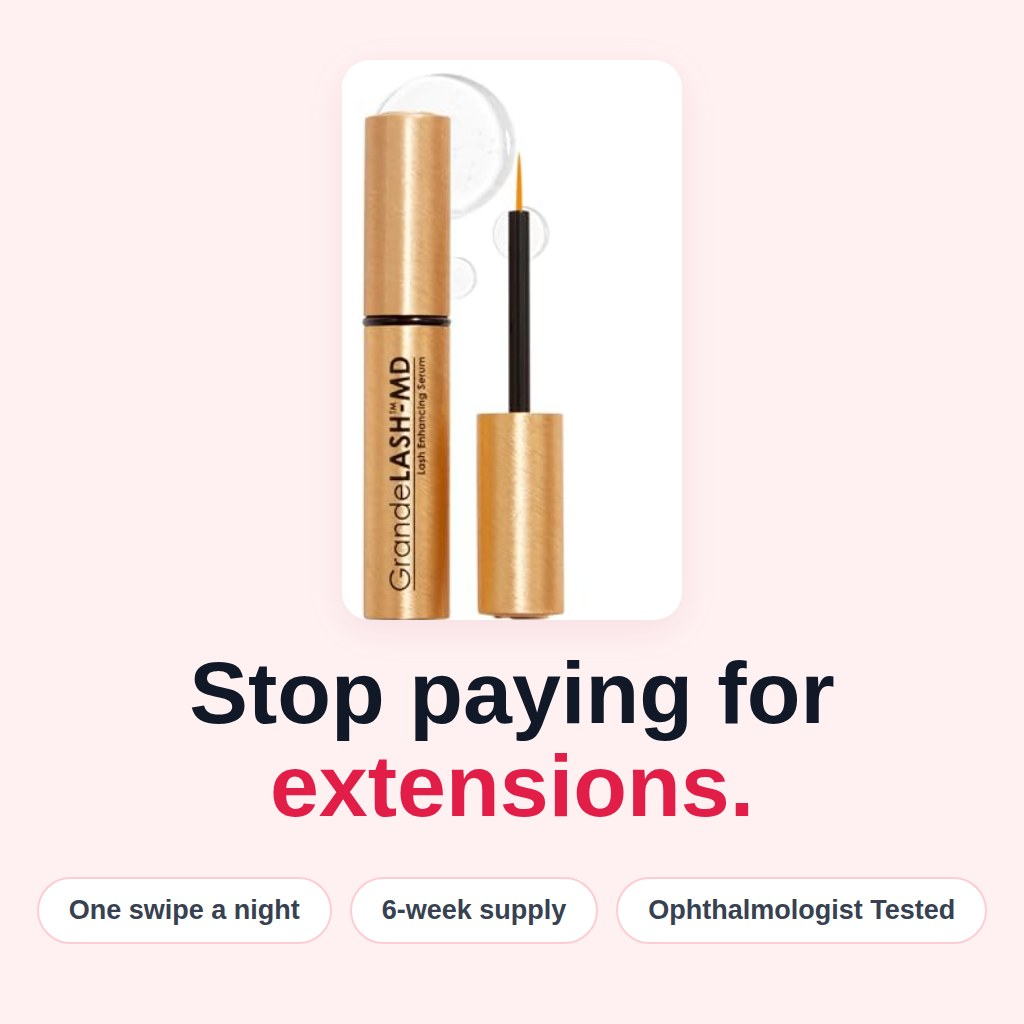
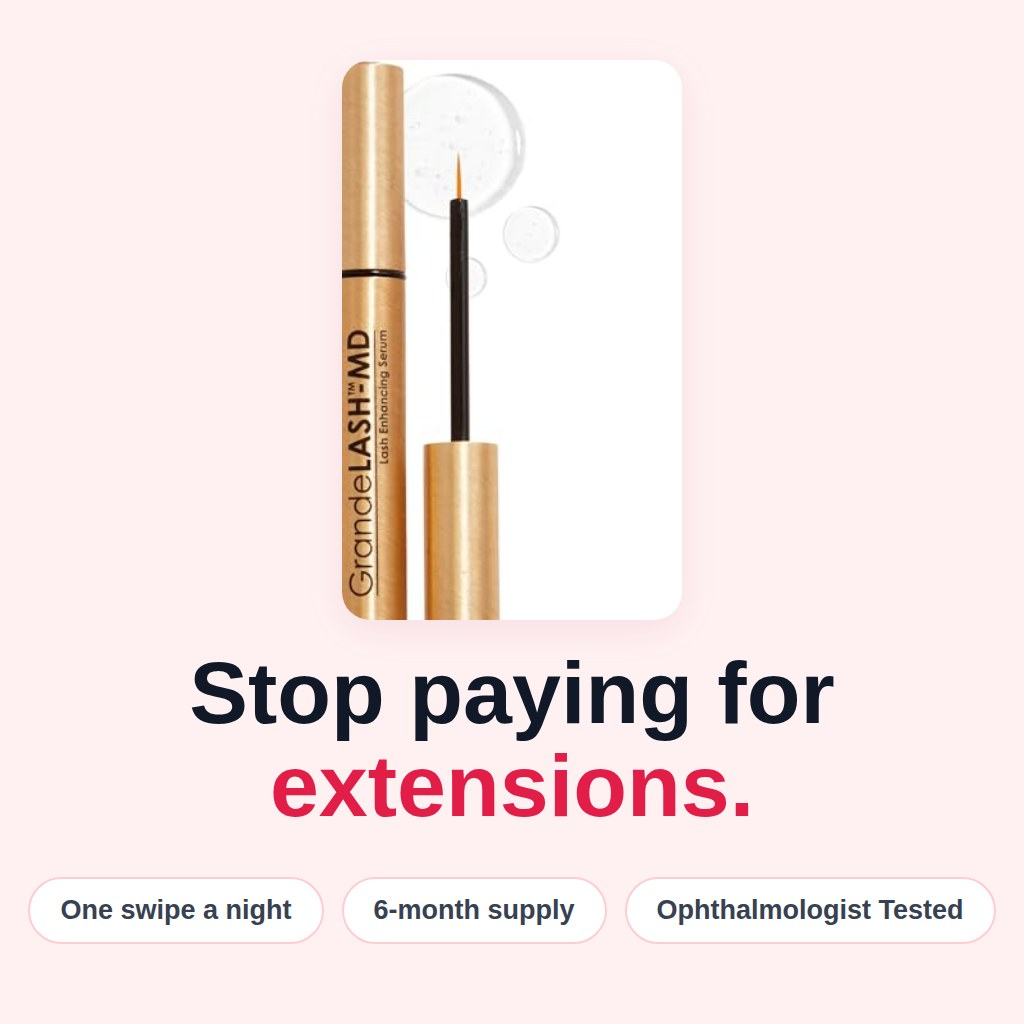
GrandeLash switches to the 4mL 6-month listing (B07QNQJ5FK, $125)
Owner's new grand-lash-fb-20 link, normalized from /gp/product/ to /dp/ so
the iOS app handoff keeps working; price/value 125 across pixel+CAPI maps,
6-month-supply copy, live listing images, deal baseline $125, break-even
default $12.50, creative cards re-rendered with the 4mL product.

Claude-Session: https://claude.ai/code/session_01Ade9dtCk8nmcaw3rm8RmuU

Changed region(s): [[0.3125, 0.0625, 0.5625, 0.625], [0.0312, 0.8438, 0.9688, 0.9062]]

diff --git a/src/app/GrandeLashMD/GLPage.tsx b/src/app/GrandeLashMD/GLPage.tsx
@@ -14,11 +14,12 @@ import type { AmazonProductData } from "@/lib/amazon-creators-api";
 // Claims follow the listing's own wording ("longer, thicker,
 // fuller-LOOKING lashes") — no medical/growth claims.
 // ── Product constants ─────────────────────────────────────────────
-// Owner's corrected SiteStripe link for the 1mL 6-week listing (ASIN
-// B082WZTJV5, tag=grand-lash-ig-20, 2026-09-03). DIRECT amazon.com URL
-// only (NEVER amzn.to: breaks the app handoff).
-const DEFAULT_AMAZON_LINK = "https://www.amazon.com/dp/B082WZTJV5?_encoding=UTF8&th=1&linkCode=ll2&tag=grand-lash-ig-20&linkId=bfe34b7ad3a4574413607d6a897804c9&language=en_US&gaOptInStatus=true&ref_=as_li_ss_tl";
-const PRICE_VALUE = 36;
+// Owner's SiteStripe link for the 4mL 6-month listing (B07QNQJ5FK,
+// tag=grand-lash-fb-20, 2026-09-16), normalized from /gp/product/ to /dp/
+// with identical params — ONLY /dp/ paths open the Amazon app on iOS
+// (AASA match). DIRECT amazon.com URL only (NEVER amzn.to).
+const DEFAULT_AMAZON_LINK = "https://www.amazon.com/dp/B07QNQJ5FK?th=1&linkCode=ll2&tag=grand-lash-fb-20&linkId=48d2a7726b8c4e64e7dce831eef58fa1&language=en_US&gaOptInStatus=true&ref_=as_li_ss_tl";
+const PRICE_VALUE = 125;
 
 // Verified on the live listing 2026-08-06 (user screenshot): 4.2★, 59,511
 // ratings, #1 Best Seller in Eyelash Primers. No invented numbers, ever.
@@ -28,15 +29,15 @@ const REVIEW_COUNT: number | null = 59511;
 // Official Amazon CDN images (stable URLs via the Creators API) — the
 // guaranteed fallback when a live API fetch fails.
 const FALLBACK_IMAGES = [
-  "https://m.media-amazon.com/images/I/41y2Yw6zsML._SL1000_.jpg",
+  "https://m.media-amazon.com/images/I/412OmkHewvL._SL1000_.jpg",
   "https://m.media-amazon.com/images/I/518A6SDWd9L._SL1000_.jpg",
   "https://m.media-amazon.com/images/I/41Ob8oijywL._SL1000_.jpg",
   "https://m.media-amazon.com/images/I/51VaIjFAJDL._SL1000_.jpg",
   "https://m.media-amazon.com/images/I/51c2l+ps63L._SL1000_.jpg",
   "https://m.media-amazon.com/images/I/41GGmw92bxL._SL1000_.jpg",
-  "https://m.media-amazon.com/images/I/41GfGG7AuuL._SL1000_.jpg",
+  "https://m.media-amazon.com/images/I/41iolbiCLKL._SL1000_.jpg",
 ];
-const FALLBACK_PRICE_ANCHOR = "Around $36.00";
+const FALLBACK_PRICE_ANCHOR = "Around $125.00";
 
 // Campaign creative supplied by the owner (2026-08) — stylized BRAND
 // visuals. Per the truthful-marketing invariant they are captioned as
@@ -46,7 +47,7 @@ const BEFORE_AFTER_IMAGE = { src: "/images/grandelash/before-after-lashes.jpg", 
 const STORY_IMAGE = { src: "/images/grandelash/mirror-routine.jpg", alt: "Applying GrandeLASH-MD along the upper lash line in the nightly routine" };
 const LIFESTYLE_IMAGES = [
   { src: "/images/grandelash/card-rating.jpg", alt: "GrandeLASH-MD — 4.2 out of 5 from 59,000+ Amazon ratings, #1 Best Seller in Eyelash Primers" },
-  { src: "/images/grandelash/card-extensions.jpg", alt: "Stop paying for extensions — one swipe a night, 6-week supply, ophthalmologist tested" },
+  { src: "/images/grandelash/card-extensions.jpg", alt: "Stop paying for extensions — one swipe a night, 6-month supply, ophthalmologist tested" },
   { src: "/images/grandelash/grand1.jpeg", alt: "Lash comparison — GrandeLASH-MD brand visual" },
   { src: "/images/grandelash/selfie-serum.jpg", alt: "Holding the GrandeLASH-MD serum tube" },
   { src: "/images/grandelash/eye-closeup-poster.jpg", alt: "GrandeLASH-MD brand visual with a lash close-up" },
@@ -106,11 +107,11 @@ export function GLPage({ trackingPage, amazonLink, product }: { trackingPage: st
   const hasRating = starRating !== null && reviewCount !== null;
   const priceValue = product?.price?.amount || PRICE_VALUE;
   const priceAnchor = product?.price?.displayAmount ? `Around ${product.price.displayAmount}` : FALLBACK_PRICE_ANCHOR;
-  // Honest urgency: the listing's standard price is $36 (verified at the
-  // ASIN switch). When the LIVE Amazon price is lower we surface the real
-  // discount; when the deal ends this disappears on its own. Never shown
-  // without a live price.
-  const REGULAR_PRICE = 36;
+  // Honest urgency: the listing's verified price at the ASIN switch
+  // (2026-09-16) is $125. When the LIVE Amazon price is lower we surface
+  // the real discount; when the deal ends this disappears on its own.
+  // Never shown without a live price.
+  const REGULAR_PRICE = 125;
   const livePrice = product?.price?.amount;
   const isDeal = typeof livePrice === "number" && livePrice > 0 && livePrice < REGULAR_PRICE;
   const dealPct = isDeal ? Math.round((1 - (livePrice as number) / REGULAR_PRICE) * 100) : 0;
@@ -119,8 +120,7 @@ export function GLPage({ trackingPage, amazonLink, product }: { trackingPage: st
     .map((img) => img?.large?.url)
     .filter((u): u is string => !!u)
     .map((u) => ({ url: u.replace("._SL500_.", "._SL1000_."), alt }));
-  // The old hand-saved 1500px set showed the 4mL Jumbo box; the 1mL
-  // listing (B082WZTJV5) is displayed from the live API images (500px)
+  // The 4mL listing (B07QNQJ5FK) is displayed from the live API images
   // with the static list above as the guaranteed fallback.
   const apiImages = liveImages.length > 0 ? liveImages : FALLBACK_IMAGES.map((url) => ({ url, alt }));
 
@@ -174,14 +174,14 @@ export function GLPage({ trackingPage, amazonLink, product }: { trackingPage: st
                     <p className="text-base text-gray-800">
                       <span className="font-black text-lg">Today: ${livePrice}</span>{" "}
                       <span className="text-gray-400 line-through">usually ${REGULAR_PRICE}</span>
-                      <span className="text-sm text-gray-600"> — a 6-week supply</span>
+                      <span className="text-sm text-gray-600"> — a 6-month supply</span>
                     </p>
                   </div>
                 ) : priceAnchor && (
                   <p className="text-center md:text-left text-base text-gray-800 mb-1">
                     <span className="font-bold">{priceAnchor}</span>
                     <span className="text-gray-400">*</span>
-                    <span className="text-sm text-gray-600"> — a 6-week supply</span>
+                    <span className="text-sm text-gray-600"> — a 6-month supply</span>
                   </p>
                 )}
                 <p className="text-center md:text-left text-xs text-gray-600 mb-3">✓ Prime Shipping&ensp;✓ Free Returns&ensp;✓ Ophthalmologist Tested&ensp;✓ Cruelty-Free</p>
@@ -192,7 +192,7 @@ export function GLPage({ trackingPage, amazonLink, product }: { trackingPage: st
                   position="hero-main"
                   className="flex items-center justify-center gap-3 w-full px-6 py-4 bg-gradient-to-r from-rose-600 to-rose-700 hover:from-rose-700 hover:to-rose-800 text-white font-bold text-lg rounded-2xl transition-all duration-200 shadow-2xl shadow-rose-900/30 hover:scale-[1.02] active:scale-[0.98] whitespace-nowrap"
                 >
-                  <span>{isDeal ? `Get the 6-Week Starter — $${livePrice}` : "Get the 6-Week Starter on Amazon"}</span>
+                  <span>{isDeal ? `Get the 6-Month Supply — $${livePrice}` : "Get the 6-Month Supply on Amazon"}</span>
                   <svg className="w-5 h-5" fill="none" stroke="currentColor" viewBox="0 0 24 24">
                     <path strokeLinecap="round" strokeLinejoin="round" strokeWidth={2.5} d="M17 8l4 4m0 0l-4 4m4-4H3" />
                   </svg>
@@ -315,8 +315,8 @@ export function GLPage({ trackingPage, amazonLink, product }: { trackingPage: st
               you sleep — no falsies, no extensions appointment, no glue.
             </p>
             <p className="text-base md:text-lg text-gray-700 leading-relaxed mb-5">
-              One 1mL bottle is a <strong>6-week supply</strong> — right through the
-              window when first results typically appear.
+              One 4mL bottle is a <strong>6-month supply</strong> — about the cost of
+              a single lash-extension refill, lasting half a year.
             </p>
             <div className="flex flex-wrap justify-center md:justify-start gap-2 mb-2">
               {["👁 Ophthalmologist Tested", "🐰 Cruelty-Free", "⏱ Seconds a day"].map((t, i) => (
@@ -352,7 +352,7 @@ export function GLPage({ trackingPage, amazonLink, product }: { trackingPage: st
             {[
               {
                 q: `Is it worth $${priceValue}?`,
-                a: "The 1mL bottle is a 6-week supply — under a dollar a day, less than a single set of lash extensions that lasts three weeks. And 6 weeks is exactly when Grande Cosmetics says first results typically appear.",
+                a: "The 4mL bottle is a 6-month supply — around 70 cents a day, less than a single set of lash extensions that lasts three weeks. And Grande Cosmetics says first results typically appear within the first 4–6 weeks.",
               },
               {
                 q: "Is it safe for my eyes?",

diff --git a/src/app/GrandeLashMD/lashAdvisorLogic.ts b/src/app/GrandeLashMD/lashAdvisorLogic.ts
@@ -128,7 +128,7 @@ const PRIORITY_REASON: Record<string, string> = {
   natural: "You said natural-looking results matter — it enhances your own lashes, no falsies or extensions",
   easy: "You wanted an easy routine — it’s one swipe on the upper lash line, once a day",
   gentle: "You asked for a gentle formula — it’s ophthalmologist tested (though any eye-area product can irritate; stop if it does)",
-  cost: "The 1mL bottle is the lowest-cost way in — a 6-week supply that covers the window when first results typically appear",
+  cost: "The 4mL bottle is a 6-month supply — per month it works out far cheaper than extension refills",
 };
 
 export interface AdvisorResult {
@@ -212,7 +212,7 @@ export function buildResult(a: Answers): AdvisorResult {
       note:
         a.routine === "unsure"
           ? `${baseNote} It only makes sense if you’ll realistically apply it most nights.`
-          : `${baseNote} The 1mL bottle is a 6-week supply — a lower-cost way to try it, but it only makes sense if you use it consistently.`,
+          : `${baseNote} One bottle is an upfront spend — it works out as a 6-month supply, but only if you use it consistently.`,
       showCta: true,
     };
   }

diff --git a/src/app/GrandeLashMD/page.tsx b/src/app/GrandeLashMD/page.tsx
@@ -13,7 +13,7 @@ export const metadata: Metadata = {
       "Amazon's #1 Best Seller. One swipe a night for longer, thicker, fuller-looking lashes.",
     images: [
       {
-        url: "https://m.media-amazon.com/images/I/41y2Yw6zsML._SL1000_.jpg",
+        url: "https://m.media-amazon.com/images/I/412OmkHewvL._SL1000_.jpg",
         width: 1000,
         height: 1000,
         alt: "GrandeLASH-MD Lash Enhancing Serum",
@@ -26,11 +26,11 @@ export const metadata: Metadata = {
     card: "summary_large_image",
     title: "GrandeLASH-MD — The Lash Look Mascara Can't Give You",
     description: "Amazon's #1 Best Seller in Eyelash Primers. 4.2★ from 59,000+ customers.",
-    images: ["https://m.media-amazon.com/images/I/41y2Yw6zsML._SL1000_.jpg"],
+    images: ["https://m.media-amazon.com/images/I/412OmkHewvL._SL1000_.jpg"],
   },
 };
 
-const ASIN = "B082WZTJV5";
+const ASIN = "B07QNQJ5FK";
 
 const getCachedProduct = unstable_cache(
   // Throws on API failure so unstable_cache does NOT store the miss

diff --git a/components/AmazonButton.tsx b/components/AmazonButton.tsx
@@ -51,7 +51,7 @@ const PAGE_PRODUCT_MAP: Record<string, { name: string; value: number; content_id
   "/BirkenstockAudience": { name: "Birkenstock Arizona Soft Footbed Sandals", value: 120, content_id: "birkenstock-arizona" },
   "/UggScuffette": { name: "UGG Scuffette II Slipper", value: 90, content_id: "ugg-scuffette" },
   "/UggClassic": { name: "UGG Scuffette II Slipper", value: 90, content_id: "ugg-scuffette" },
-  "/GrandeLashMD": { name: "GrandeLASH-MD Lash Enhancing Serum", value: 36, content_id: "grandelash-serum" },
+  "/GrandeLashMD": { name: "GrandeLASH-MD Lash Enhancing Serum", value: 125, content_id: "grandelash-serum" },
   "/NewBalance928": { name: "New Balance Women's 928v3 Walking Shoe", value: 158, content_id: "newbalance-928v3" },
 };
 

diff --git a/src/app/api/page-view/route.ts b/src/app/api/page-view/route.ts
@@ -34,7 +34,7 @@ const PAGE_PRODUCT_MAP: Record<string, { name: string; value: number; content_id
   "/UggScuffette": { name: "UGG Scuffette II Slipper", value: 90, content_id: "ugg-scuffette" },
   "/UggClassic": { name: "UGG Scuffette II Slipper", value: 90, content_id: "ugg-scuffette" },
   "/NewBalance928": { name: "New Balance Women's 928v3 Walking Shoe", value: 158, content_id: "newbalance-928v3" },
-  "/GrandeLashMD": { name: "GrandeLASH-MD Lash Enhancing Serum", value: 36, content_id: "grandelash-serum" },
+  "/GrandeLashMD": { name: "GrandeLASH-MD Lash Enhancing Serum", value: 125, content_id: "grandelash-serum" },
 };
 
 function getPixelIdForPage(page: string): string | null {

diff --git a/src/app/GrandeLashMD/LashAdvisor.tsx b/src/app/GrandeLashMD/LashAdvisor.tsx
@@ -277,7 +277,7 @@ export function LashAdvisor({
                           <img src={productImage} alt={productAlt} className="w-16 h-16 object-contain rounded-xl bg-white ring-1 ring-rose-100 flex-shrink-0" />
                           <div>
                             <p className="font-bold text-gray-900 leading-tight">GrandeLASH-MD Lash Enhancing Serum</p>
-                            <p className="text-xs text-gray-500 mt-0.5">1mL — a 6-week supply</p>
+                            <p className="text-xs text-gray-500 mt-0.5">4mL — a 6-month supply</p>
                           </div>
                         </div>
                         <AmazonButton

diff --git a/src/app/analytics/AnalyticsDashboard.tsx b/src/app/analytics/AnalyticsDashboard.tsx
@@ -480,9 +480,9 @@ export default function AnalyticsDashboard({ allData, pagesData, facebookAdsData
     "/BirkenstockSales": 4.8,
     "/BirkenstockInstagram": 4.8,
     "/BirkenstockAudience": 4.8,
-    // GrandeLASH-MD 1mL is ~$36 — same beauty commission rate as the
+    // GrandeLASH-MD 4mL is ~$125 — same beauty commission rate as the
     // owner-set $10 default for the old $100 listing, scaled to the price
-    "/GrandeLashMD": 3.6,
+    "/GrandeLashMD": 12.5,
   };
   const [beCommission, setBeCommissionState] = useState(4.7); // USD
   const [beAmazonConv, setBeAmazonConvState] = useState(7);
